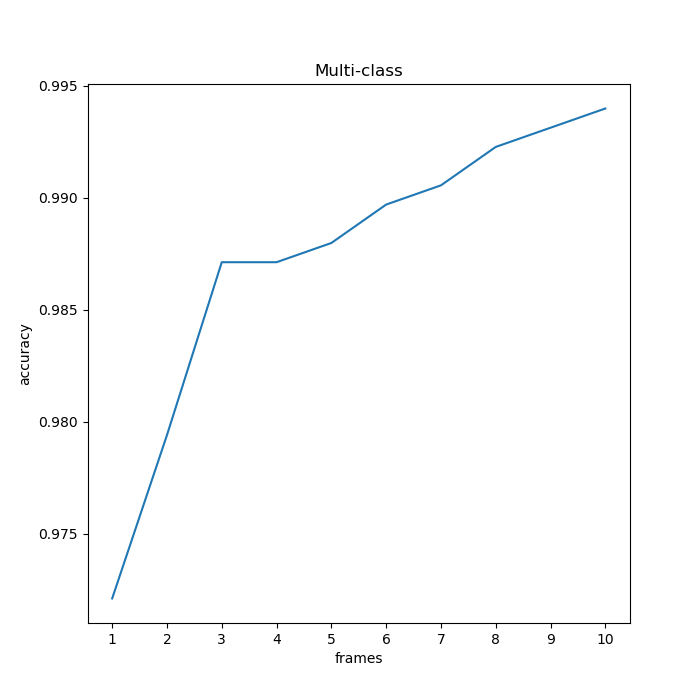
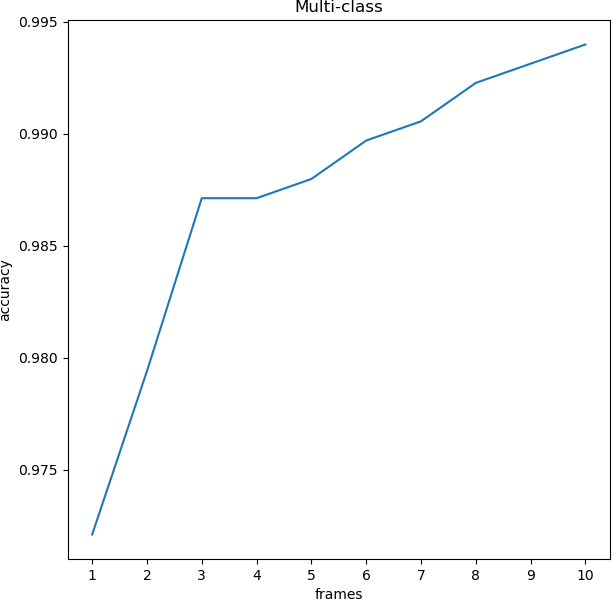
Trim one more plot

diff --git a/whitepaper/content/face-auth.tex b/whitepaper/content/face-auth.tex
@@ -553,7 +553,7 @@
     \begin{figure}[H]
         \caption{Frames-accuracy relation for multiclass problem}
         \centering
-        \includegraphics[scale=0.7]{multiclass_frames_accuracy_relation}
+        \includegraphics[scale=0.5]{multiclass_frames_accuracy_relation}
     \end{figure}
 
     \begin{table}[H]
